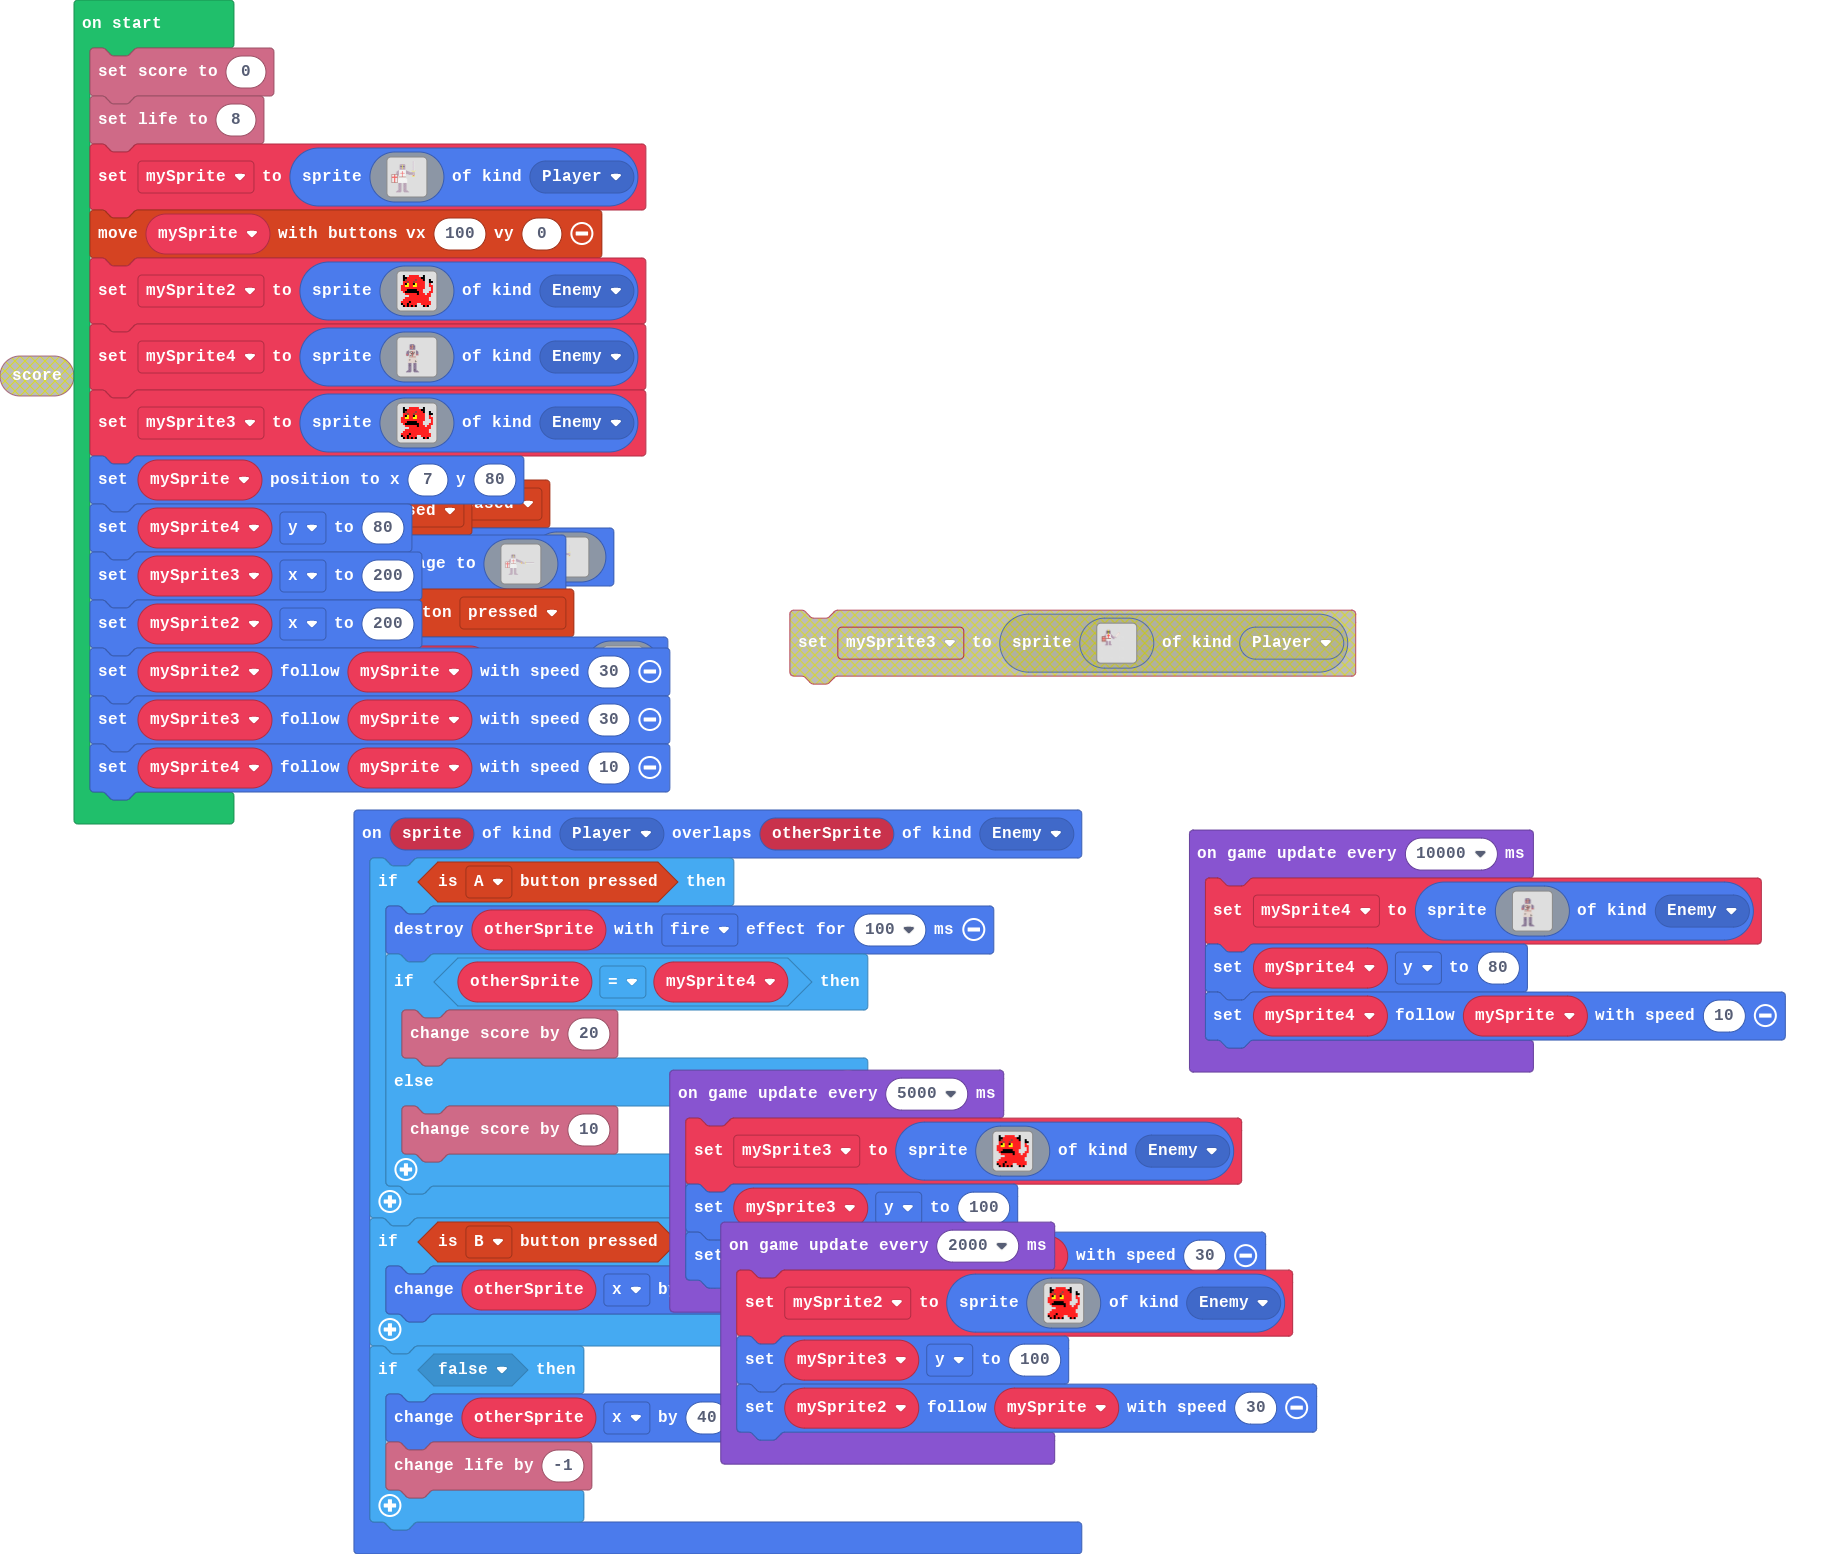
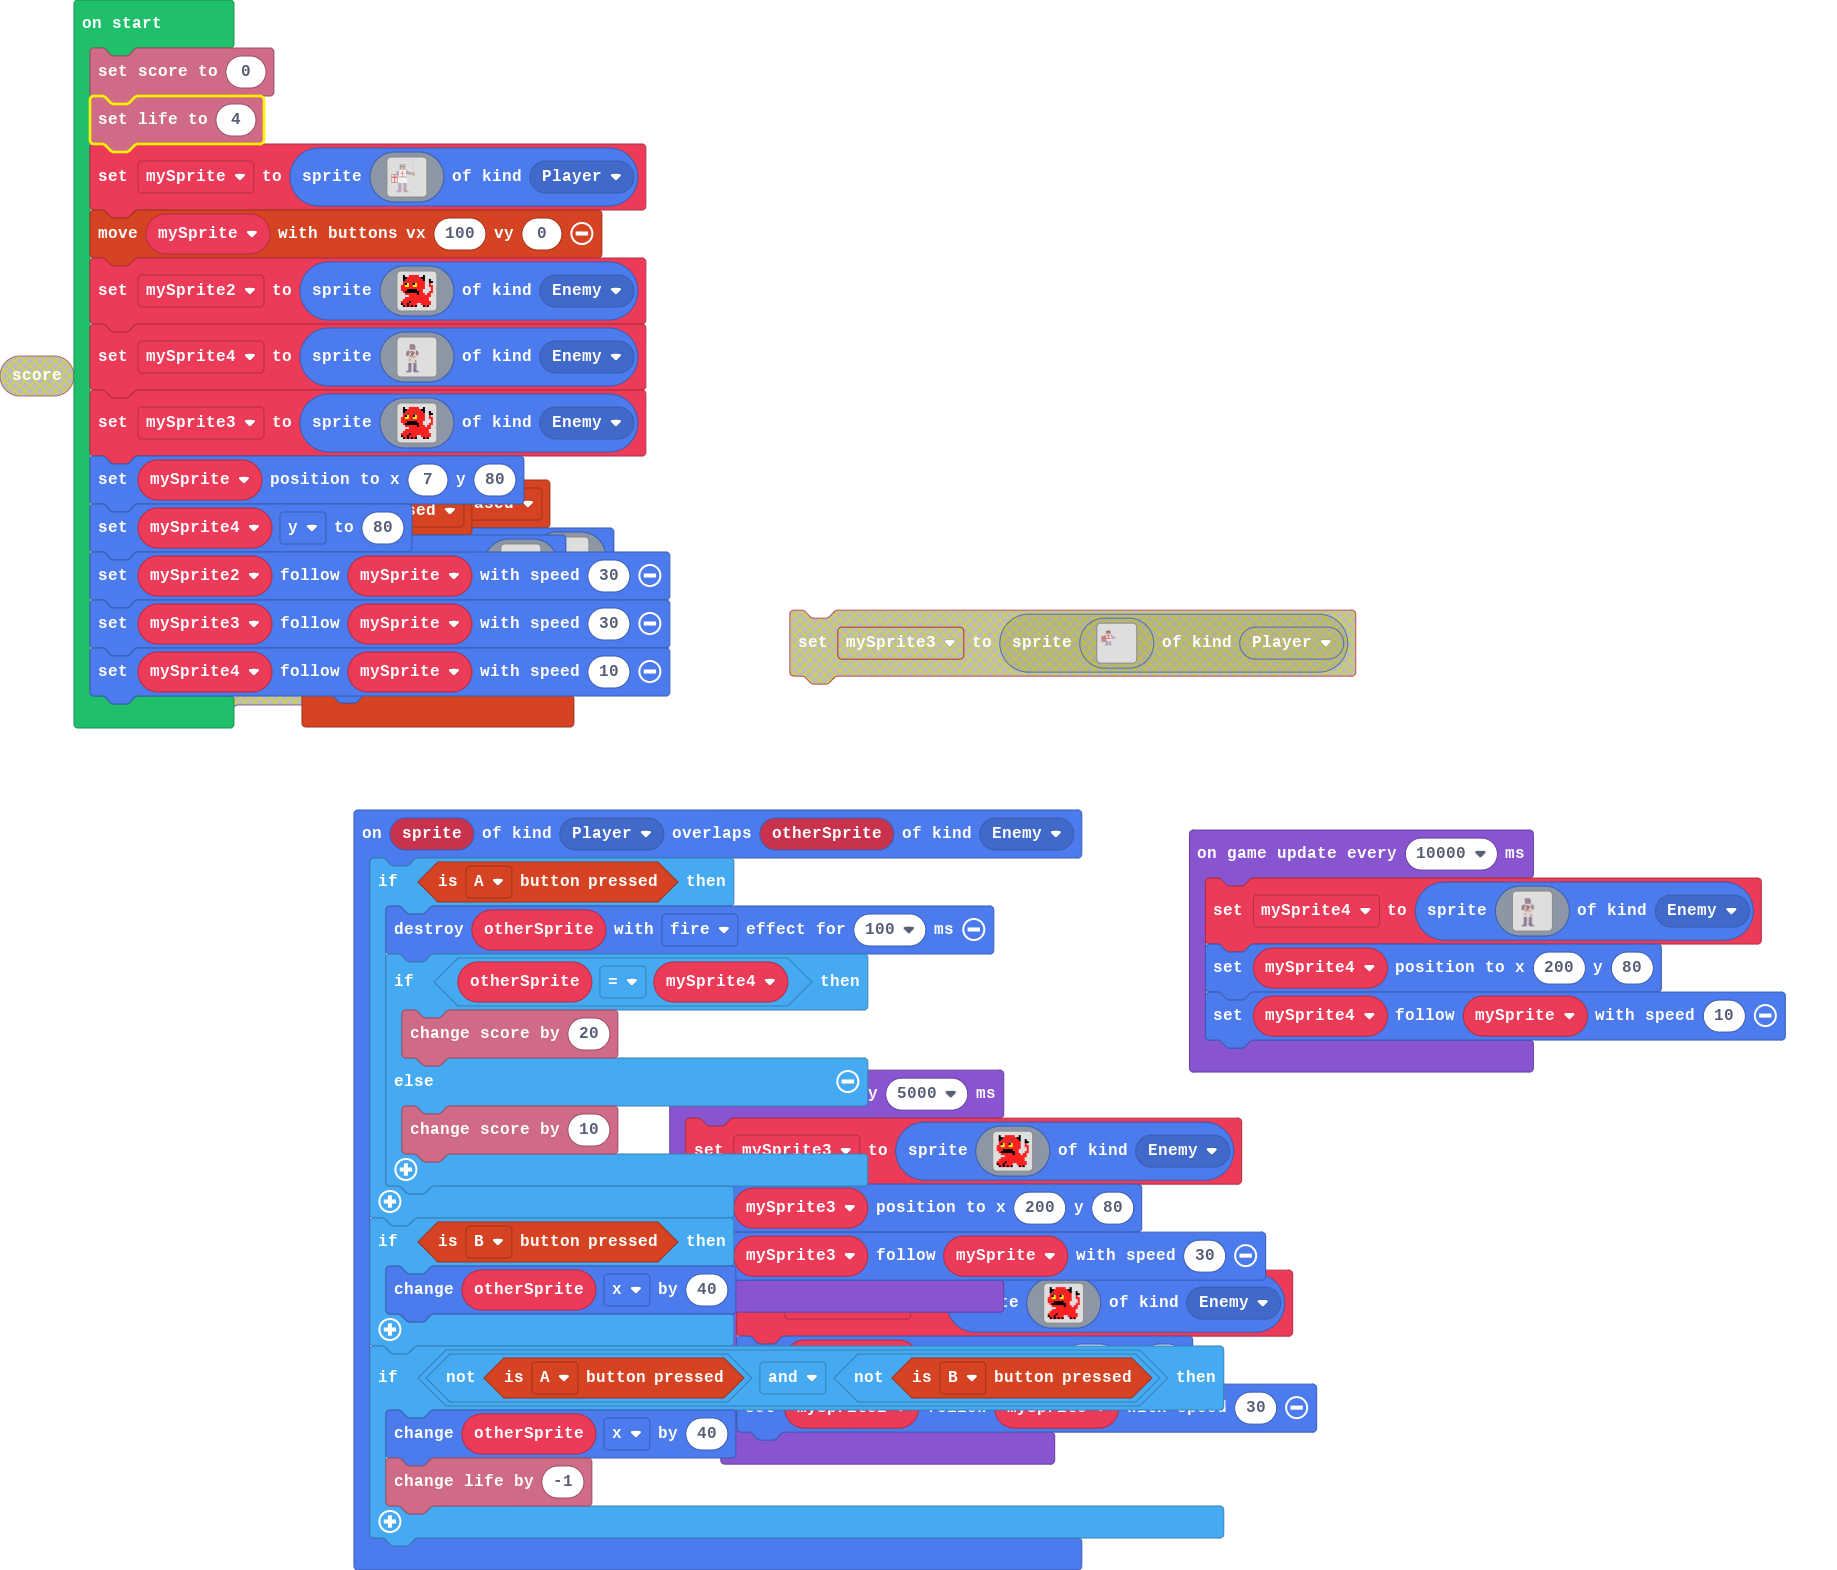
Update main.blocks, main.ts

Changed region(s): [[0.0, 0.0309, 0.9929, 0.9884], [0.4034, 0.3707, 0.7447, 0.4633]]

diff --git a/main.ts b/main.ts
@@ -175,7 +175,7 @@ sprites.onOverlap(SpriteKind.Player, SpriteKind.Enemy, function (sprite, otherSp
     if (controller.B.isPressed()) {
         otherSprite.x += 40
     }
-    if (false) {
+    if (!(controller.A.isPressed()) && !(controller.B.isPressed())) {
         otherSprite.x += 40
         info.changeLifeBy(-1)
     }
@@ -183,7 +183,7 @@ sprites.onOverlap(SpriteKind.Player, SpriteKind.Enemy, function (sprite, otherSp
 let mySprite4: Sprite = null
 let mySprite: Sprite = null
 info.setScore(0)
-info.setLife(8)
+info.setLife(4)
 mySprite = sprites.create(img`
     . . . . . . . . . . . . . . . . . . . . . . . . . . . . . . . . . . . b 1 . . . . . . . . . . . . . . 
     . . . . . . . . . . . . . . . . . . . . . . . . . . . . . . . . . . . b 1 . . . . . . . . . . . . . . 
@@ -329,8 +329,6 @@ let mySprite3 = sprites.create(img`
     `, SpriteKind.Enemy)
 mySprite.setPosition(7, 80)
 mySprite4.y = 80
-mySprite3.x = 200
-mySprite2.x = 200
 mySprite2.follow(mySprite, 30)
 mySprite3.follow(mySprite, 30)
 mySprite4.follow(mySprite, 10)
@@ -353,7 +351,7 @@ game.onUpdateInterval(5000, function () {
         f 2 2 f 2 2 2 2 . . 2 2 2 2 2 . 
         . f 2 f 2 f 2 f . . . f 2 f . . 
         `, SpriteKind.Enemy)
-    mySprite3.y = 100
+    mySprite3.setPosition(200, 80)
     mySprite3.follow(mySprite, 30)
 })
 game.onUpdateInterval(2000, function () {
@@ -375,7 +373,7 @@ game.onUpdateInterval(2000, function () {
         f 2 2 f 2 2 2 2 . . 2 2 2 2 2 . 
         . f 2 f 2 f 2 f . . . f 2 f . . 
         `, SpriteKind.Enemy)
-    mySprite3.y = 100
+    mySprite2.setPosition(200, 80)
     mySprite2.follow(mySprite, 30)
 })
 game.onUpdateInterval(10000, function () {
@@ -432,6 +430,6 @@ game.onUpdateInterval(10000, function () {
         . . . . . . . . c c c c c c c c . . . . . c c c c c c c c . . . . . . . . . . . . . . . . . . . . . . 
         . . . . . . . . . . . . . . . . . . . . . . . . . . . . . . . . . . . . . . . . . . . . . . . . . . . 
         `, SpriteKind.Enemy)
-    mySprite4.y = 80
+    mySprite4.setPosition(200, 80)
     mySprite4.follow(mySprite, 10)
 })
